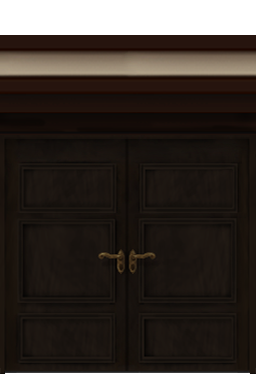
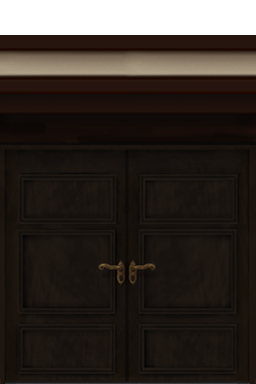
Fix doors sprites and position.

Changed region(s): [[0.0, 0.968, 1.0, 1.0], [0.0, 0.176, 1.0, 0.2053], [0.375, 0.6453, 0.625, 0.7333]]

diff --git a/src/RoomState.cpp b/src/RoomState.cpp
@@ -576,7 +576,7 @@ void RoomState::LoadDoors() {
   objects.emplace_back(doorGo);
 
   doorGo = new GameObject(8);
-  door = new Door(*doorGo, Helpers::DoorStyle::DOUBLE, {256, 113}, false,
+  door = new Door(*doorGo, Helpers::DoorStyle::DOUBLE, {256, 112}, false,
                   Helpers::KeyType::KEY1);
   doorGo->AddComponent(door);
   objects.emplace_back(doorGo);
